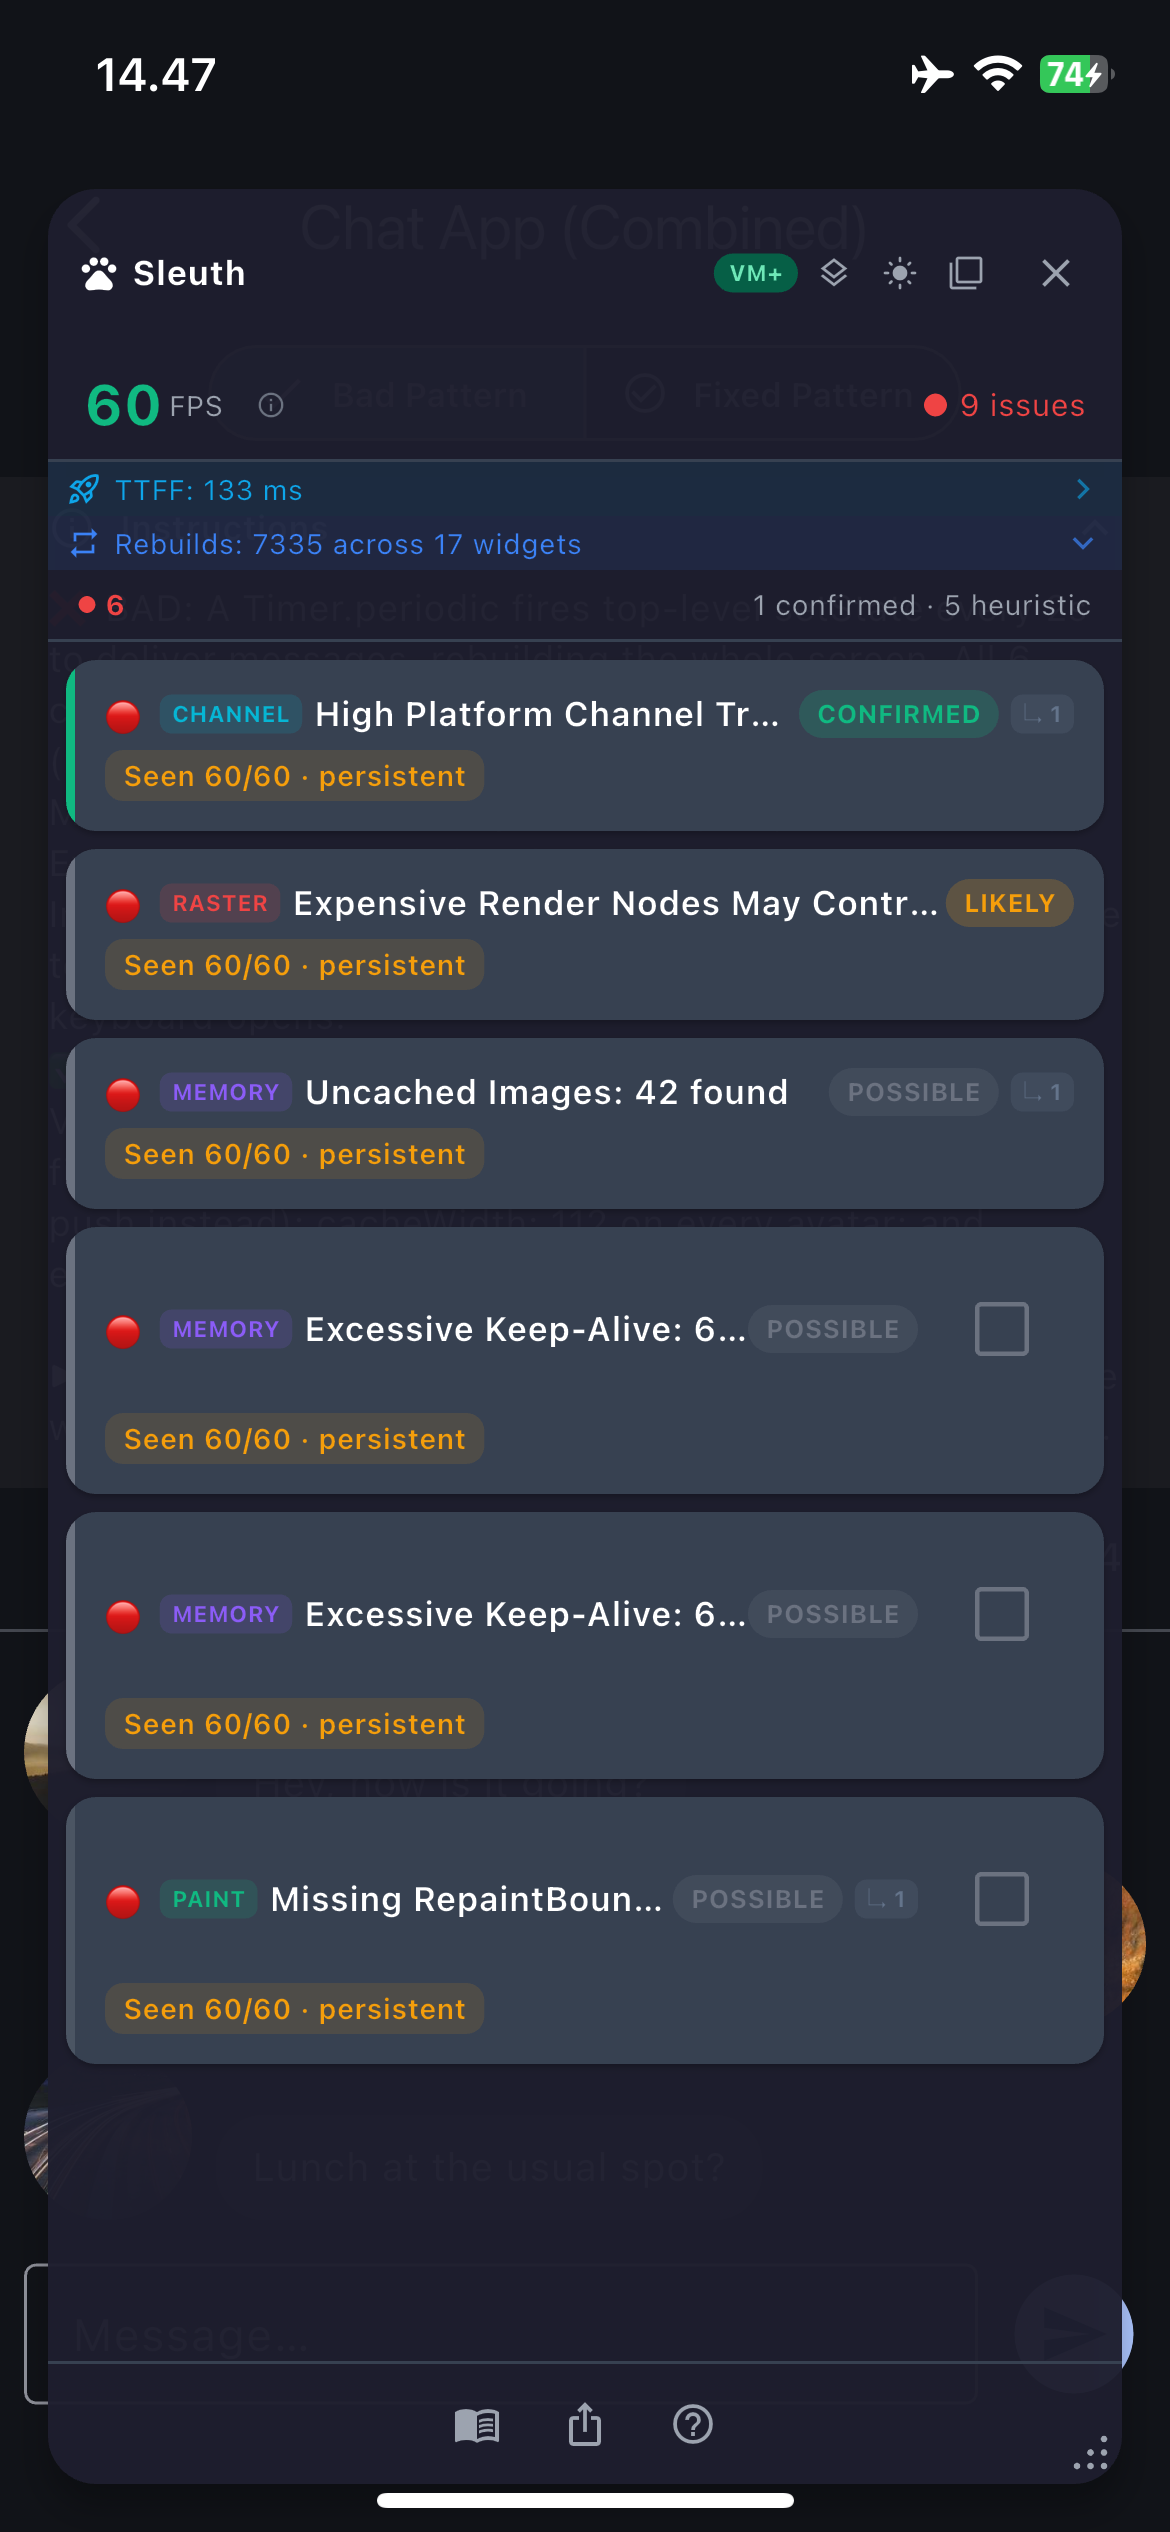
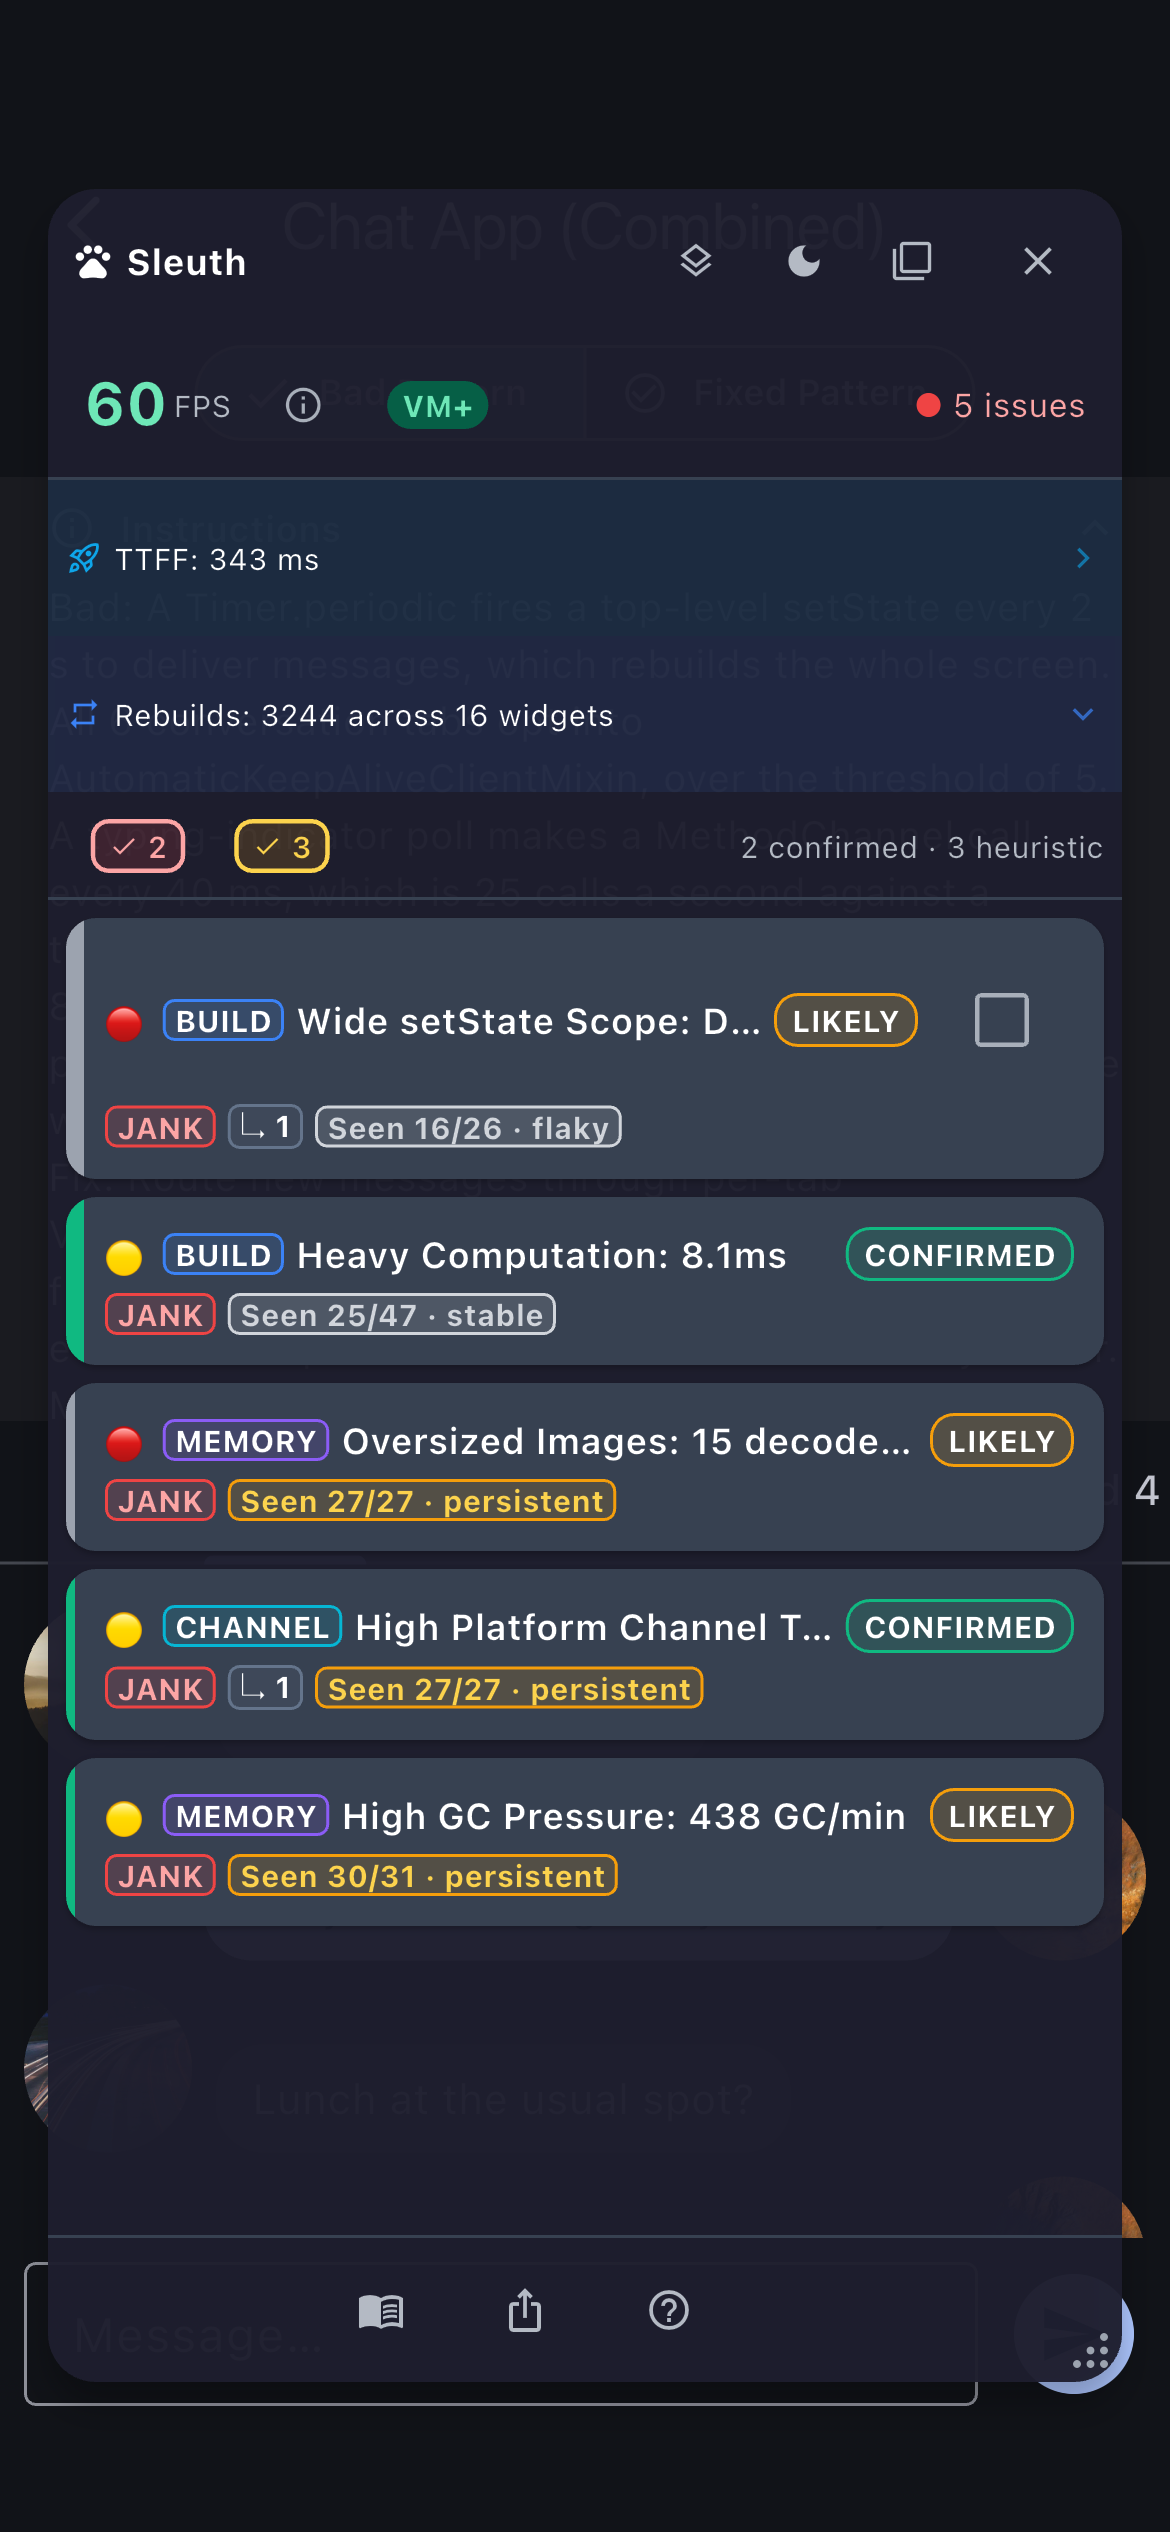
docs: pub.dev READMEs and screenshots match 0.37.0
- Retake the dark and light overlay screenshots on an iPhone 12 (profile,
  Chat App demo) so they show the 0.37 overlay.
- Both READMEs: a --no-dds session is checked with vmConnected, since
  connectionMode stays basic until the first jank frame gets a VM-tier
  verdict.
- Root README: test badge 4,296, Flutter badge 3.32+, sleuth_mcp link to
  pub.dev.
- sleuth_mcp README: measured VM poll cost in place of "negligible",
  sleuth link to pub.dev.
- pubspec screenshot captions: no em dashes; the overlay follows the
  platform brightness, not the host app theme.

diff --git a/README.md b/README.md
@@ -5,9 +5,9 @@
 # Sleuth
 
 [![Pub Version](https://img.shields.io/pub/v/sleuth)](https://pub.dev/packages/sleuth)
-[![Flutter](https://img.shields.io/badge/Flutter-3.x-blue?logo=flutter)](https://flutter.dev)
+[![Flutter](https://img.shields.io/badge/Flutter-3.32%2B-blue?logo=flutter)](https://flutter.dev)
 [![License: MIT](https://img.shields.io/badge/License-MIT-green.svg)](https://opensource.org/licenses/MIT)
-[![Tests](https://img.shields.io/badge/tests-4%2C274_passing-brightgreen)]()
+[![Tests](https://img.shields.io/badge/tests-4%2C296_passing-brightgreen)]()
 [![Analysis](https://img.shields.io/badge/analysis-0_issues-brightgreen)]()
 
 Sleuth is an in-app performance diagnostics overlay for Flutter. It shows jank, memory leaks, slow network requests, GPU pressure and widget anti-patterns inside your app, and every issue comes with a fix hint.
@@ -77,13 +77,13 @@ flutter run
 ## MCP integration
 
 You can drive Sleuth from your AI assistant. The
-[`sleuth_mcp`](packages/sleuth_mcp) sidecar connects Sleuth's seven
-`ext.sleuth.*` VM service extensions to MCP clients (Claude Code, Cursor,
-Zed), so the assistant can query live issues, route health and snapshots
-in conversation, with the same signals as the overlay. Every response
-carries `connectionMode` (`correlated`, `full`, `basic`, `warmup` or
-`disconnected`), so the assistant can tell a session without VM data from
-a session without issues.
+[`sleuth_mcp`](https://pub.dev/packages/sleuth_mcp) sidecar connects
+Sleuth's seven `ext.sleuth.*` VM service extensions to MCP clients (Claude
+Code, Cursor, Zed), so the assistant can query live issues, route health
+and snapshots in conversation, with the same signals as the overlay. Every
+response carries `connectionMode` (`correlated`, `full`, `basic`, `warmup`
+or `disconnected`), and `diagnose` reports `vmConnected`, so the assistant
+can tell a session without VM data from a session without issues.
 
 The sidecar is opt-in; most developers only need the in-app overlay.
 Sleuth reserves the `ext.sleuth.*` namespace, so other packages should
@@ -138,7 +138,7 @@ SleuthConfig(
 
 **VM full mode** adds the sub-phase breakdown (build, layout, paint and raster) but depends on VM service connectivity, which varies by platform. Sleuth falls back to frame timing mode when the VM is unavailable. On cold start, a background reconnect ladder (seven attempts, from 500 ms up to 30 s apart) upgrades Sleuth to full mode once the VM web server binds, with no manual action.
 
-> **Prefer VM+ (full) mode for complete diagnostics.** In `basic` mode (no VM self-connect) the VM-only detectors (Shader Jank, Heavy Compute, Platform Channel, Memory Pressure, Stream Resource) stay silent, and so do the VM time-share issues `rebuild_activity` and `excessive_repaint`. Structural heuristics stay at `possible`, although measured structural signals still reach `likely` without a VM (`uncached_images`, for example, compares decoded and rendered image sizes). The issue list is real but **incomplete**. Do not read "no memory or repaint issues" as a clean result until the `connectionMode` field on an `ext.sleuth.*` response reads `full` or `correlated` (the `sleuth_mcp` `diagnose` tool shows it), or `Sleuth.diagnoseCaptureState().vmConnected` is `true` in the app. Run with `--no-dds` (below) to get there.
+> **Prefer VM+ (full) mode for complete diagnostics.** Without a VM link the VM-only detectors (Shader Jank, Heavy Compute, Platform Channel, Memory Pressure, Stream Resource) stay silent, and so do the VM time-share issues `rebuild_activity` and `excessive_repaint`. Structural heuristics stay at `possible`, although measured structural signals still reach `likely` without a VM (`uncached_images`, for example, compares decoded and rendered image sizes). The issue list is real but **incomplete**. Do not read "no memory or repaint issues" as a clean result until `vmConnected` is `true`, either in `ext.sleuth.diagnose` (the `sleuth_mcp` `diagnose` tool shows it) or in `Sleuth.diagnoseCaptureState()` in the app. `connectionMode` alone does not tell you. It reads `basic` until a jank frame gets a VM-tier verdict, so a connected session on a smooth screen also reads `basic`. Run with `--no-dds` (below) to get the VM link.
 
 ### Reaching full mode
 
@@ -150,7 +150,7 @@ Skip DDS so Sleuth can self-connect on the first run, with no relaunch:
 flutter run --profile --no-dds
 ```
 
-The VM service then accepts several clients, so Sleuth connects alongside the tooling and the `connectionMode` field on `ext.sleuth.*` responses reads `full` (or `correlated`). Hot reload and hot restart still work. You lose the features only DDS provides (smoother multi-client DevTools, log history).
+The VM service then accepts several clients, so Sleuth connects alongside the tooling and `vmConnected` reads `true`. `connectionMode` moves from `basic` to `full` (or `correlated`) at the first jank frame. Hot reload and hot restart still work. You lose the features only DDS provides (smoother multi-client DevTools, log history).
 
 Full mode runs VM polling on the app isolate, and its cost grows with the number of timeline events the app writes. On an iPhone 12 (profile mode, 500 ms polls) an idle screen costs about 1.5 ms of UI-isolate time per poll. An FPS stress screen that writes about 10k events per poll costs about 32 ms per poll, mostly to decode the response (see [doc/internals.md](doc/internals.md)). To find what caused a stall, read `Sleuth.lastPollTimings` (`uiBlockingMicros` is the synchronous decode, parse and dispatch time) or the `lastPoll*` and `maxPoll*` keys of `ext.sleuth.diagnose`. On **emulators and simulators** (software rendering, weak CPU) polling can lower FPS. Measure frame rates on a real device, not an emulator.
 
@@ -171,7 +171,7 @@ xcrun simctl launch booted com.example.example
 # capture the URI: xcrun simctl spawn booted log stream | grep "Dart VM service"
 ```
 
-On either path, the `connectionMode` field on every `ext.sleuth.*` response (shown by the `sleuth_mcp` `diagnose` tool) reads `full` or `correlated`, and in the app `Sleuth.diagnoseCaptureState().vmConnected` is `true`.
+On either path, `ext.sleuth.diagnose` (shown by the `sleuth_mcp` `diagnose` tool) reports `vmConnected: true`, and so does `Sleuth.diagnoseCaptureState()` in the app.
 
 ## FPS semantics
 

diff --git a/packages/sleuth_mcp/README.md b/packages/sleuth_mcp/README.md
@@ -1,6 +1,6 @@
 # sleuth_mcp
 
-`sleuth_mcp` is an MCP stdio sidecar for [sleuth](https://github.com/Harrys76/sleuth).
+`sleuth_mcp` is an MCP stdio sidecar for [sleuth](https://pub.dev/packages/sleuth).
 It connects the `ext.sleuth.*` VM service extensions to AI clients such as
 Claude Code, Cursor and Zed over the Model Context Protocol, so your
 assistant can query a running Flutter app's live performance data.
@@ -263,9 +263,11 @@ flutter run --profile --no-dds
 ```
 
 The VM service then accepts more than one client, and Sleuth connects to
-it. In full mode Sleuth polls the VM on the app isolate. The cost is
-negligible on real devices but can lower FPS on emulators and simulators,
-so measure frame rates on real hardware. Hot reload and hot restart still
+it. Sleuth then polls the VM every 500 ms on the app isolate. On an
+iPhone 12 an idle screen costs about 1.5 ms of UI-isolate time per poll,
+and a screen that writes about 10k timeline events per poll costs about
+32 ms. On emulators and simulators polling can lower FPS, so measure frame
+rates on real hardware. Hot reload and hot restart still
 work. You lose the features that only DDS provides, such as multi-client
 DevTools and log history.
 
@@ -285,8 +287,9 @@ xcrun simctl spawn booted log stream --predicate 'process == "Runner"' | grep "D
 # attach_app(debugUrl: "ws://127.0.0.1:PORT/<token>=/ws")
 ```
 
-`diagnose` then reports `full`, or `correlated` once the per-frame
-timeline correlator has warmed up.
+`diagnose` then reports `vmConnected: true`. `connectionMode` stays
+`basic` until a jank frame gets a VM-tier verdict, then reads `full`, or
+`correlated` when the frame matches its timeline events.
 
 ## CI gate with `sleuth_check`
 
